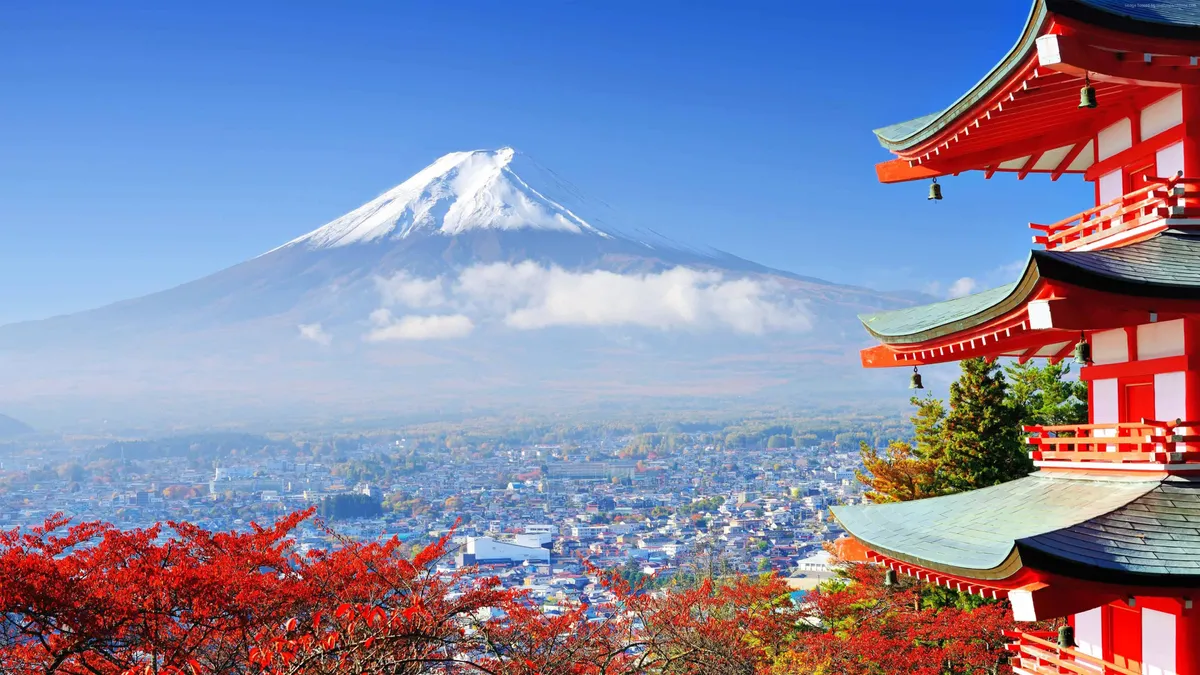
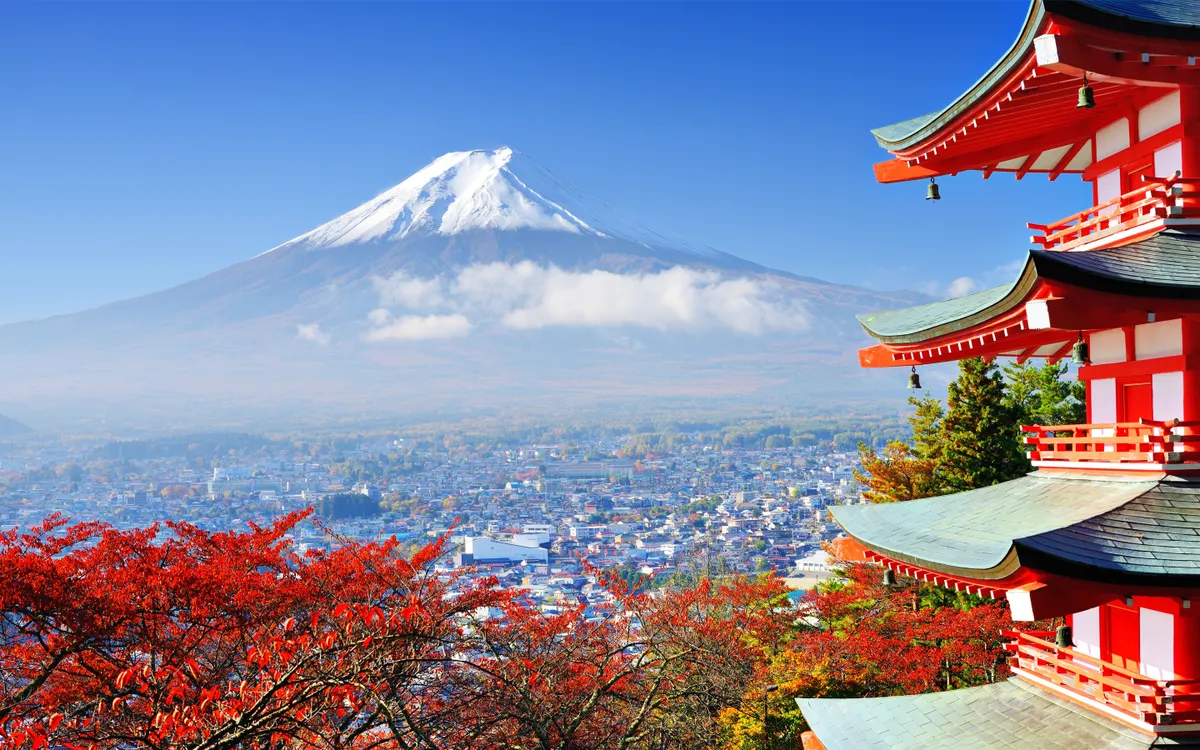
creacion de selector de tema

diff --git a/styles.css b/styles.css
@@ -1,14 +1,18 @@
 body{
     background: url(./assets/japan.jpg);
     background-attachment: fixed;
+    background-repeat: repeat;
+    background-size: cover;
+    background-position: center;
 
 }
 
 #global{
     margin: 0px auto;
-    width: 95%;
+    width: 90%;
     margin-top: 30px;
     background-color: white;
+
     padding: 25px;
     box-shadow: 0px 0px 2px #ccc;
     height: auto;
@@ -19,7 +23,9 @@ header{
     flex-direction: row;
     height: 150px;
     justify-content: space-around;
-    position: sticky;
+
+   opacity: 0.9;
+  
 }
 
 #logo{
@@ -35,6 +41,7 @@ header{
     text-transform: capitalize;
     width: 45%;
     margin-right: 25px;
+    margin-top: 25px;
 }
 
 #nav-arriba{
@@ -43,6 +50,9 @@ header{
     width: 55%;
     margin-top: 15px;
     color: #ccc;
+    position: sticky;  
+ 
+    background-color: rgb(17, 70, 138);
 
     
 }
@@ -74,6 +84,10 @@ header{
     justify-content: space-around;
     height: 50px;
     color: #ccc;
+    top:0%;
+    position: sticky;
+    height: 45px;
+    padding-top: 8px;
 
 }
 
@@ -102,7 +116,7 @@ header{
 }
 
 .article{
-    border: 1px solid red;
+  
     margin-top: 15px;
     padding: 5px;
     background-color: #ccc;
@@ -114,17 +128,32 @@ header{
     font-family: Helvetica, Arial;
     font-size: 30px;
     padding: 0;
+    cursor: pointer;
+    transition: all 500ms;
+    width:30% ;
+    padding-left: 10px;
 }
+
+.article h2:hover{
+    color: rgb(41, 41, 41);
+    text-shadow: 1px 1px #2d2d2d;
+
+}
+
+
+
 .article p{
     font-family: Helvetica, Arial;
     font-size: 15px;
+    padding-left: 10px;
 }
 
-#hashtag{
-    font-size: 18x;
+.article span{
+    font-size: 17px;
     color: black;
     font-style: oblique;
     cursor: pointer;
+    padding-bottom: 15px;
   
 }
 
@@ -144,4 +173,46 @@ footer{
     text-align: center;
     padding-top: 15px;
     line-height: 30px;
+}
+
+#theme-selector{
+    width: 35px;
+    height: 75px;
+    background: rgba(51, 51, 51, 0.8);
+    left: 0%;
+    top: 50%;
+    position: fixed;
+    margin-left: 10px;
+    display: flex;
+    flex-direction: column;
+}
+
+
+
+#green, #red, #black{
+    width: 28px;
+    height: 45px;
+    border: 1px solid white;
+    margin: 0 auto;
+    margin-top: 5px;
+    margin-bottom: 5px;
+    display: block;
+
+}
+
+#green{
+    background-color: rgb(85, 229, 85);
+    cursor: pointer;
+}
+
+#red{
+    background-color: rgb(235, 94, 94);
+    cursor: pointer;
+
+}
+
+#black{
+    background-color: black;
+    cursor: pointer;
+
 }

diff --git a/index.html b/index.html
@@ -147,6 +147,14 @@
       </section>
     </div>
 
+    <div id="theme-selector">
+        <span id="red"></span>
+        <span id="green"></span>
+        <span id="black"></span>
+    </div>
+
+
+
     <footer>Página web realizada por Javier Delgado Chacón &copy;</footer>
 
 
